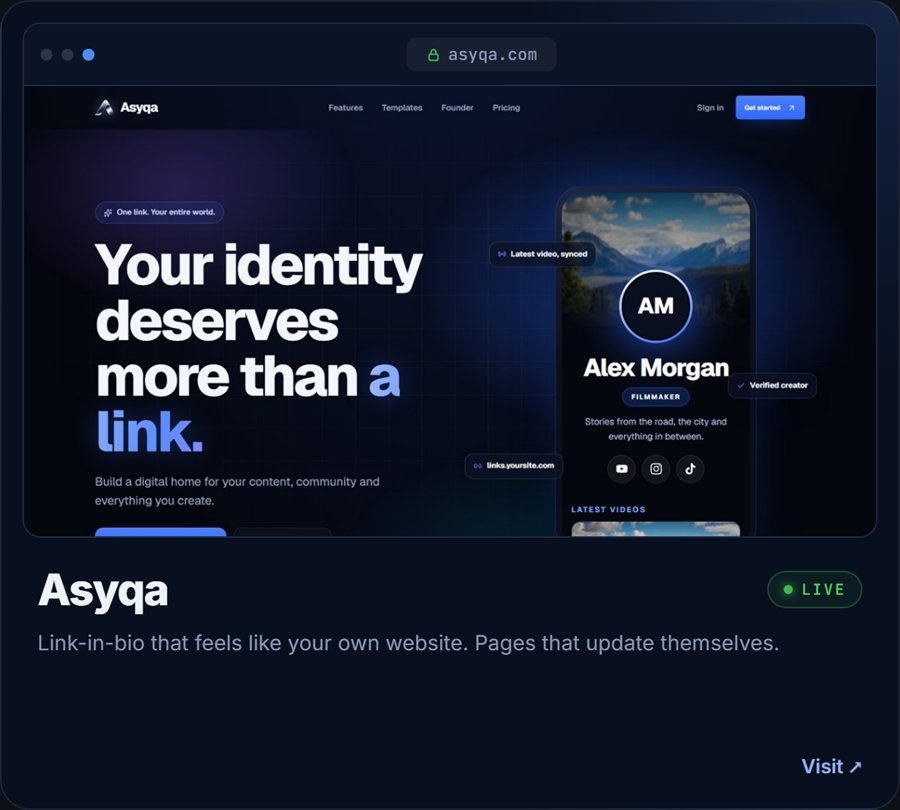
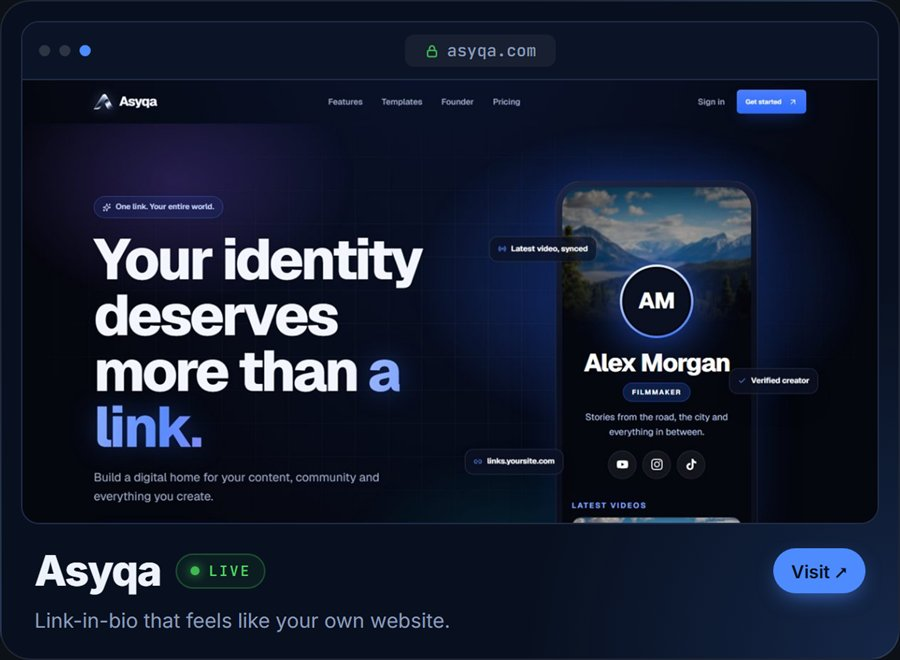
Tighten live cards and drop client site section
Re-render the Asyqa and HoloAtlas cards without the empty space and with
the visit button next to the title. Remove the Vrolijke Koster section.

diff --git a/README.md b/README.md
@@ -34,14 +34,6 @@ Next up is the **Asyqa CRM**: a multi-tenant CRM that works for 18 different ind
 
 <br>
 
-<img alt="Sites I've made" src="./assets/section-sites.svg" width="100%">
-
-<a href="https://vrolijkekostermoordrecht.nl/"><img alt="Vrolijke Koster: website for a Dutch party singer, with agenda, gift cards and his own admin panel" src="./assets/live-vrolijkekoster.jpg" width="49%"></a>
-
-**[Vrolijke Koster](https://vrolijkekostermoordrecht.nl/)**, a site for a Dutch party singer. Agenda, photos, videos, reviews, gift cards and WhatsApp booking, plus an admin panel so he can run it all himself.
-
-<br>
-
 <img alt="What I've built" src="./assets/section-experience.svg" width="100%">
 
 <img alt="FiveM and GTA RP scripts, Discord bots, SaaS and web apps, websites, OBS tools and desktop apps" src="./assets/experience-dark.svg" width="100%">
